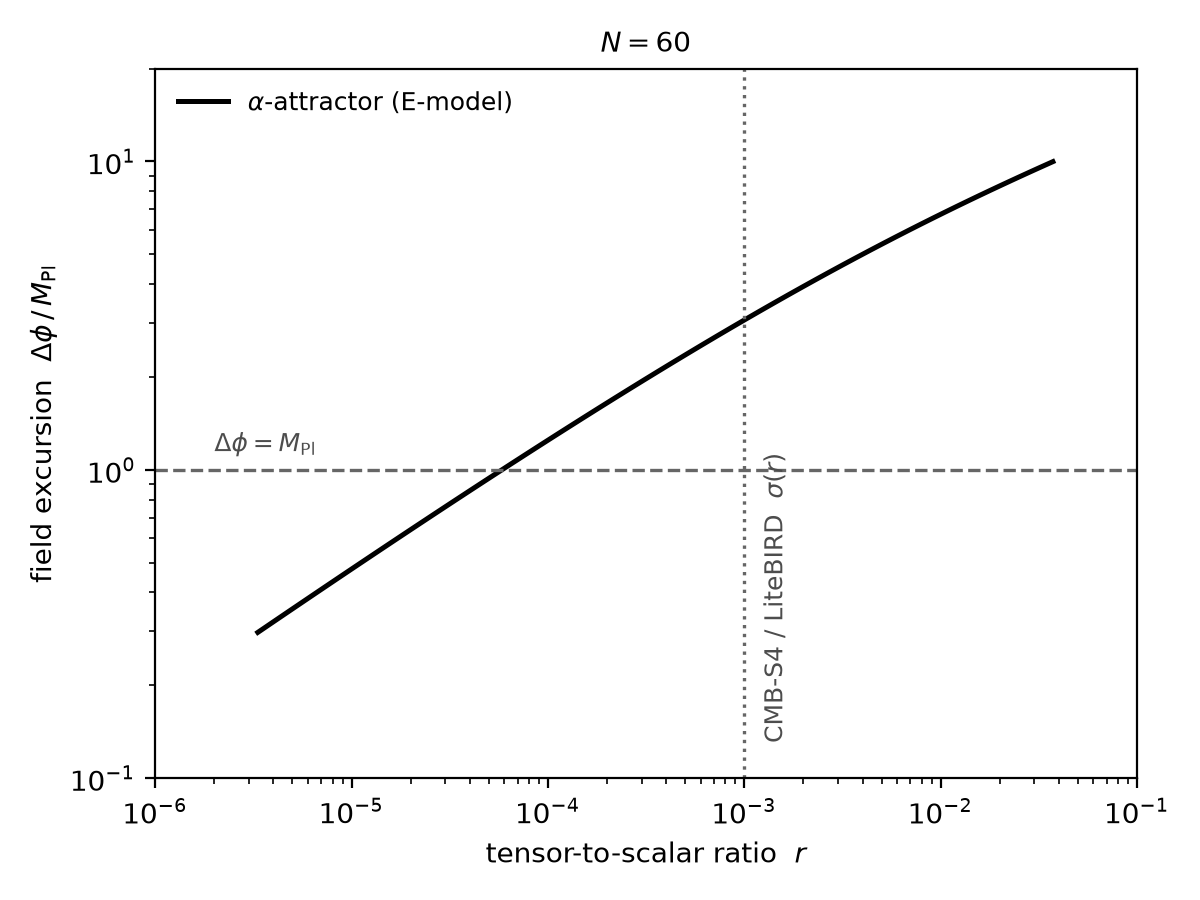
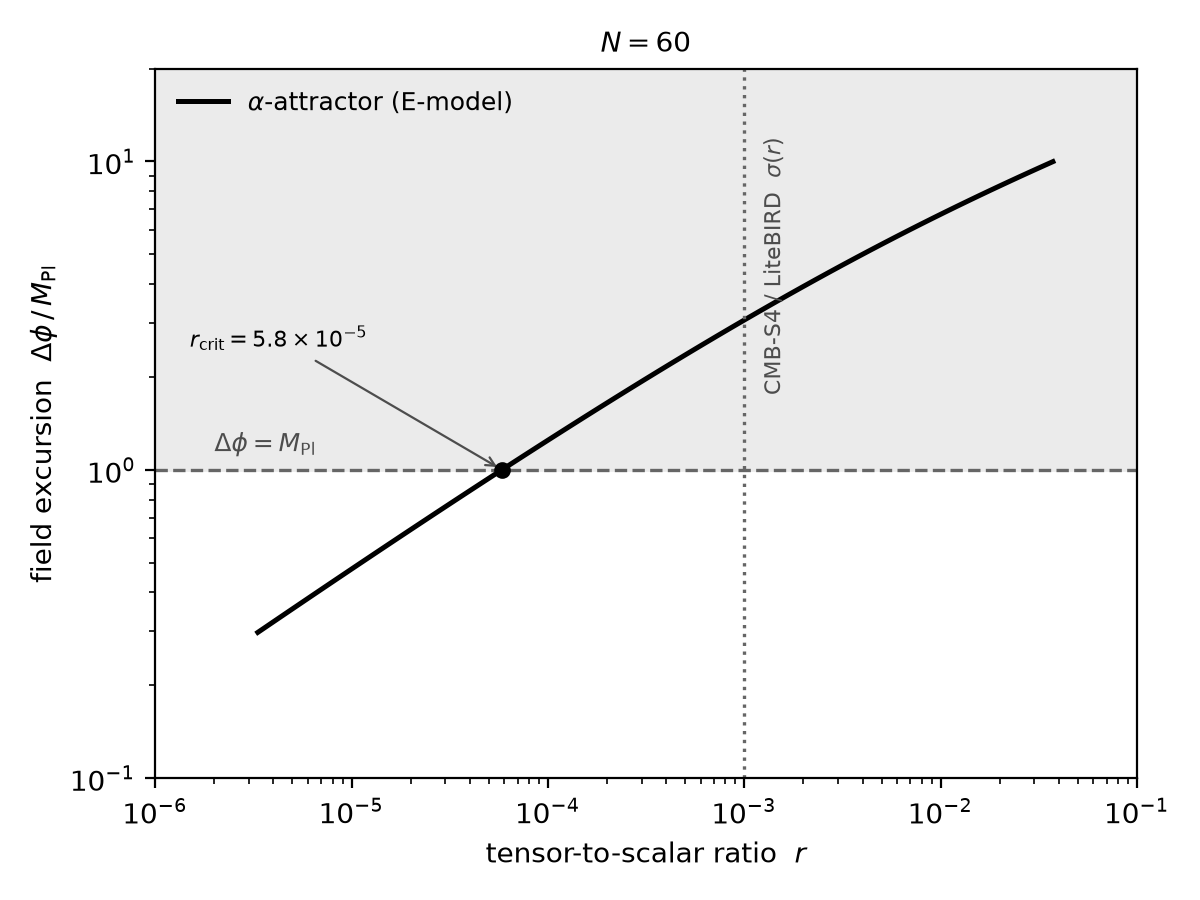
Fig 1: shade super-Planckian region, mark r_crit, reposition label

diff --git a/figures/fig1_r_vs_dphi.py b/figures/fig1_r_vs_dphi.py
@@ -20,13 +20,18 @@ for a in alphas:
 fig, ax = plt.subplots(figsize=(6.0, 4.5))
 
 ax.loglog(rs, dphis, color='k', lw=1.8, label=r'$\alpha$-attractor (E-model)')
+ax.axhspan(1.0, 20.0, color='0.92', zorder=0)
 ax.axhline(1.0, color='0.4', ls='--', lw=1.2)
 ax.axvline(SIGMA_R_NEXTGEN, color='0.4', ls=':', lw=1.2)
 
 ax.text(2e-6, 1.15, r'$\Delta\phi = M_{\rm Pl}$', fontsize=9, color='0.3')
-ax.text(1.25e-3, 0.13, r'CMB-S4 / LiteBIRD  $\sigma(r)$',
-        fontsize=9, color='0.3', rotation=90, va='bottom')
+ax.text(1.25e-3, 12.0, r'CMB-S4 / LiteBIRD  $\sigma(r)$',
+        fontsize=8, color='0.3', rotation=90, va='top')
 
+ax.plot(5.8325e-05, 1.0, 'o', ms=5, color='k', zorder=5)
+ax.annotate(r'$r_{\rm crit} = 5.8 \times 10^{-5}$',
+            xy=(5.8325e-05, 1.0), xytext=(1.5e-6, 2.5),
+            fontsize=8, arrowprops=dict(arrowstyle='->', lw=0.8, color='0.3'))
 ax.set_xlim(1e-6, 1e-1)
 ax.set_ylim(0.1, 20.0)
 ax.set_xlabel(r'tensor-to-scalar ratio  $r$')
